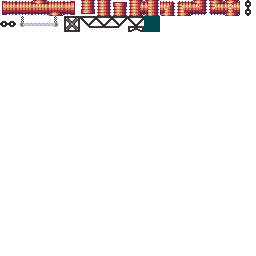
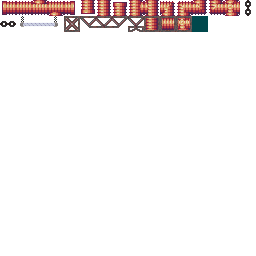
more gen stuff

Changed region(s): [[0.25, 0.0625, 0.8125, 0.125]]

diff --git a/mods/world/src/server/gen.rs b/mods/world/src/server/gen.rs
@@ -1,3 +1,4 @@
+use std::collections::{HashMap, HashSet};
 use std::collections::hash_map::DefaultHasher;
 use std::hash::Hasher;
 
@@ -135,23 +136,187 @@ impl World {
     fn structurize_chunk(&mut self, chunk_pos: Vector2<i32>) {
         self.mut_chunk_at_raw(chunk_pos).population = Population::Structures;
         if chunk_pos.mag_sq() <= 2 { return }
-        let pos = chunk_pos * 16;
+        let mut pos = chunk_pos * 16;
         let mut rng = rand::rngs::StdRng::seed_from_u64(self.chunk_hash_with_seed_and_salt(pos, 0));
-        if rng.gen_ratio(1, 10) {
-            for x in 3..(CHUNK_SIZE-3) as i32 {
-                for y in 3..(CHUNK_SIZE-3) as i32 {
-                    self.set_init_tile_at(pos + Vector2::new(x, y), Population::TerrainPostProcess, 
-                    if (x == 3) as u8 + (y == 3) as u8 + (x == CHUNK_SIZE as i32 - 4) as u8 + (y == CHUNK_SIZE as i32 - 4) as u8 > 1 { Tile::QuarteredLamp } else { Tile::LabWall });
-                    self.set_init_fg_tile_at(pos + Vector2::new(x, y), Population::TerrainPostProcess, match (x, y) {
-                        (3, 3) => FgTile::PipeRD,
-                        (3, 12) => FgTile::PipeRU,
-                        (12, 3) => FgTile::PipeLD,
-                        (12, 12) => FgTile::PipeLU,
-                        (3|12, _) => FgTile::PipeUD,
-                        (_, 3|12) => FgTile::PipeLR,
-                        _ => FgTile::Empty
-                    });
+        // pipes
+        if rng.gen_ratio(1, 8) {
+            pos += Vector2::new(rng.gen_range(0..CHUNK_SIZE as i32), rng.gen_range(0..CHUNK_SIZE as i32));
+            let mut pipes = HashSet::new();
+            fn gen_pipe(rng: &mut rand::rngs::StdRng, pipes: &mut HashSet<Vector2<i32>>, world: &mut World, mut pos: Vector2<i32>, dir: Vector2<i32>, len: i32) {
+                let len = len - rng.gen_range(1..4);
+                if len <= 0 { return }
+                if dir.mag_sq() > 0 {
+                    for _ in 0..len {
+                        pos += dir;
+                        if world.get_init_tile_at(pos, Population::TerrainPostProcess) == Tile::Wall || 
+                            world.get_init_fg_tile_at(pos, Population::TerrainPostProcess) != FgTile::Empty || 
+                            !pipes.insert(pos) { return; }
+                    }
                 }
+
+                if rng.gen_ratio(4, 5) { gen_pipe(rng, pipes, world, pos, Vector2::new(1, 0), len); }
+                if rng.gen_ratio(4, 5) { gen_pipe(rng, pipes, world, pos, Vector2::new(-1, 0), len); }
+                if rng.gen_ratio(4, 5) { gen_pipe(rng, pipes, world, pos, Vector2::new(0, 1), len); }
+                if rng.gen_ratio(4, 5) { gen_pipe(rng, pipes, world, pos, Vector2::new(0, -1), len); }
+            }
+            pipes.insert(pos);
+            gen_pipe(&mut rng, &mut pipes, self, pos, Vector2::new(0, 0), 16);
+
+            for pipe in &pipes {
+                let (wl, wr, wu, wd) = (
+                    self.get_init_tile_at(*pipe + Vector2::new(-1, 0), Population::TerrainPostProcess) == Tile::Wall,
+                    self.get_init_tile_at(*pipe + Vector2::new(1, 0), Population::TerrainPostProcess) == Tile::Wall,
+                    self.get_init_tile_at(*pipe + Vector2::new(0, -1), Population::TerrainPostProcess) == Tile::Wall,
+                    self.get_init_tile_at(*pipe + Vector2::new( 0, 1), Population::TerrainPostProcess) == Tile::Wall
+                );
+                self.set_init_fg_tile_at(*pipe, Population::TerrainPostProcess, 
+                match (
+                    pipes.contains(&(*pipe + Vector2::new(-1, 0))) || wl, 
+                    pipes.contains(&(*pipe + Vector2::new(1, 0))) || wr, 
+                    pipes.contains(&(*pipe + Vector2::new(0, -1))) || wu, 
+                    pipes.contains(&(*pipe + Vector2::new(0, 1))) || wd
+                ) {
+                    (true, true, true, true) => FgTile::PipeLRUD,
+
+                    (true, true, true, false) if !wu => FgTile::PipeLRU,
+                    (true, true, true, false) => FgTile::PipeLR,
+                    (true, true, false, true) if !wd => FgTile::PipeLRD,
+                    (true, true, false, true) => FgTile::PipeLR,
+                    (true, false, true, true) if !wl => FgTile::PipeLUD,
+                    (true, false, true, true) => FgTile::PipeUD,
+                    (false, true, true, true) if !wr => FgTile::PipeRUD,
+                    (false, true, true, true) => FgTile::PipeUD,
+
+                    (true, true, false, false) => FgTile::PipeLR,
+                    (false, false, true, true) => FgTile::PipeUD,
+
+                    (true, false, true, false) => FgTile::PipeLU,
+                    (true, false, false, true) => FgTile::PipeLD,
+                    (false, true, true, false) => FgTile::PipeRU,
+                    (false, true, false, true) => FgTile::PipeRD,
+
+                    (true, false, false, false) => FgTile::PipeEndR,
+                    (false, true, false, false) => FgTile::PipeEndL,
+                    (false, false, true, false) => FgTile::PipeEndD,
+                    (false, false, false, true) => FgTile::PipeEndU,
+
+                    (false, false, false, false) => FgTile::Empty
+                });
+            }
+        }
+        if rng.gen_ratio(1, 8) {
+            pos += Vector2::new(rng.gen_range(0..CHUNK_SIZE as i32), rng.gen_range(0..CHUNK_SIZE as i32));
+            let mut platforms = HashSet::new();
+            fn gen_support(rng: &mut rand::rngs::StdRng, platforms: &mut HashSet<Vector2<i32>>, world: &mut World, pos: Vector2<i32>, is_up_chain: bool) {
+                let mut next_layer = rng.gen_range(4..12);
+                for i in 1.. {
+                    if is_up_chain {
+                        let mut pos = pos;
+                        pos.y -= i;
+                        use FgTile::*;
+                        if world.get_init_tile_at(pos, Population::TerrainPostProcess) == Tile::Wall || 
+                            matches!(world.get_init_fg_tile_at(pos, Population::TerrainPostProcess), 
+                            FramedPipeJunction | FramedPipeLR | FramedPipeUD | MetalFrameBlock | MetalFrameFloorL | MetalFrameFloorM | MetalFrameFloorR | MetalFrameFloorMSupport | MetalFrameFloorMItemSupport ) { 
+                                break; 
+                            } else {
+                                world.set_init_fg_tile_at(pos, Population::TerrainPostProcess, FgTile::ChainV);
+                            }
+                    } else {
+                        let mut pos = pos;
+                        pos.y += i;
+                        use FgTile::*;
+                        if world.get_init_tile_at(pos, Population::TerrainPostProcess) == Tile::Wall || 
+                            matches!(world.get_init_fg_tile_at(pos, Population::TerrainPostProcess), 
+                            FramedPipeJunction | FramedPipeLR | FramedPipeUD | MetalFrameBlock | MetalFrameFloorL | MetalFrameFloorM | MetalFrameFloorR | MetalFrameFloorMSupport | MetalFrameFloorMItemSupport ) || 
+                            !platforms.insert(pos) { break; }
+                        next_layer -= 1;
+                        if next_layer <= 0 {
+                            next_layer = rng.gen_range(4..12);
+                            gen_platform(rng, platforms, world, pos);
+                        }
+                    }
+                }
+                return;
+            }
+            fn gen_platform(rng: &mut rand::rngs::StdRng, platforms: &mut HashSet<Vector2<i32>>, world: &mut World, pos: Vector2<i32>) {
+                let mut next_support = rng.gen_range(2..8);
+                let mut next_chain = rng.gen_range(2..8);
+                for i in 0..rng.gen_range(12..24) {
+                    let mut pos = pos;
+                    pos.x += i;
+                    use FgTile::*;
+                    if world.get_init_tile_at(pos, Population::TerrainPostProcess) == Tile::Wall || 
+                        matches!(world.get_init_fg_tile_at(pos, Population::TerrainPostProcess), FramedPipeJunction | FramedPipeLR | FramedPipeUD | MetalFrameBlock) || 
+                        !platforms.insert(pos) { break; }
+                    next_support -= 1;
+                    if next_support <= 0 {
+                        next_support = rng.gen_range(2..8);
+                        gen_support(rng, platforms, world, pos, false);
+                    }
+                    next_chain -= 1;
+                    if next_chain <= 0 {
+                        next_chain = rng.gen_range(2..8);
+                        gen_support(rng, platforms, world, pos, true);
+                    }
+                }
+                next_support = rng.gen_range(2..8);
+                next_chain = rng.gen_range(2..8);
+                for i in 1..rng.gen_range(12..24) {
+                    let mut pos = pos;
+                    pos.x -= i;
+                    use FgTile::*;
+                    if world.get_init_tile_at(pos, Population::TerrainPostProcess) == Tile::Wall || 
+                        matches!(world.get_init_fg_tile_at(pos, Population::TerrainPostProcess), FramedPipeJunction | FramedPipeLR | FramedPipeUD | MetalFrameBlock) || 
+                        !platforms.insert(pos) { break; }
+                    next_support -= 1;
+                    if next_support <= 0 {
+                        next_support = rng.gen_range(2..8);
+                        gen_support(rng, platforms, world, pos, false);
+                    }
+                    next_chain -= 1;
+                    if next_chain <= 0 {
+                        next_chain = rng.gen_range(2..8);
+                        gen_support(rng, platforms, world, pos, true);
+                    }
+                }
+            }
+            gen_platform(&mut rng, &mut platforms, self, pos);
+
+            for platform in &platforms {
+                if matches!(self.get_init_fg_tile_at(*platform + Vector2::new(1, 0), Population::TerrainPostProcess), 
+                FgTile::FluorecentLampL | FgTile::FluorecentLampR | FgTile::ChainV) {
+                    self.set_init_fg_tile_at(*platform, Population::TerrainPostProcess, FgTile::MetalFrameFloorMItemSupport);
+                    continue;
+                }
+                let (wl, wr, wu, wd) = (
+                    self.get_init_tile_at(*platform + Vector2::new(-1, 0), Population::TerrainPostProcess) == Tile::Wall,
+                    self.get_init_tile_at(*platform + Vector2::new(1, 0), Population::TerrainPostProcess) == Tile::Wall,
+                    self.get_init_tile_at(*platform + Vector2::new(0, -1), Population::TerrainPostProcess) == Tile::Wall,
+                    self.get_init_tile_at(*platform + Vector2::new( 0, 1), Population::TerrainPostProcess) == Tile::Wall
+                );
+                let t = 
+                match (
+                    platforms.contains(&(*platform + Vector2::new(-1, 0))) || wl, 
+                    platforms.contains(&(*platform + Vector2::new(1, 0))) || wr, 
+                    platforms.contains(&(*platform + Vector2::new(0, -1))) || wu, 
+                    platforms.contains(&(*platform + Vector2::new(0, 1))) || wd
+                ) {
+                    (true, true, _, false) if !wu => FgTile::MetalFrameFloorM,
+                    (true, false, _, false) if !wu => FgTile::MetalFrameFloorR,
+                    (false, true, _, false) if !wu => FgTile::MetalFrameFloorL,
+                    (true, true, _, true) => FgTile::MetalFrameFloorMSupport,
+
+                    (_, _, _, _) => FgTile::MetalFrameBlock,
+                };
+                let current = self.get_init_fg_tile_at(*platform, Population::TerrainPostProcess);
+                use FgTile::*;
+                let t = match current {
+                    PipeEndL | PipeLR | PipeEndR => FgTile::FramedPipeLR,
+                    PipeEndU | PipeUD | PipeEndD => FgTile::FramedPipeUD,
+                    PipeLRU | PipeLRD | PipeRUD | PipeLUD | PipeLD | PipeRD | PipeLU | PipeRU | PipeLRUD => FgTile::FramedPipeJunction,
+                    _ => t
+                };
+                self.set_init_fg_tile_at(*platform, Population::TerrainPostProcess, t);
             }
         }
     }

diff --git a/mods/player/src/client.rs b/mods/player/src/client.rs
@@ -115,6 +115,7 @@ impl PlayerHandle {
 
     pub(crate) fn receive_position(&mut self, _messenger: &mut ClientMessenger, _renderer: Nullable<&mut Renderer>, _store: &mut DataStore, (position, teleporting): (Vector2<f32>, bool)) { 
 		if teleporting {
+            log!("got teleported");
 			self.p_position = position;
 			self.interpolation_delta = 1.0;
 			self.position = position;

diff --git a/mods/world/src/tiles.rs b/mods/world/src/tiles.rs
@@ -65,6 +65,10 @@ pub enum FgTile {
     MetalFrameFloorM,
     MetalFrameFloorR,
     MetalFrameFloorMSupport,
+    MetalFrameFloorMItemSupport,
+    FramedPipeLR,
+    FramedPipeUD,
+    FramedPipeJunction,
     Water
 }
 

diff --git a/server/build.rs b/server/build.rs
@@ -1,5 +1,5 @@
 use rerun_except::rerun_except;
 
 fn main() {
-	rerun_except(&["mods/", "runtime/"]).unwrap();
+	rerun_except(&["mods/**", "runtime/**", "__pycache__/**", "target/**"]).unwrap();
 }

diff --git a/client/build.rs b/client/build.rs
@@ -1,5 +1,5 @@
 use rerun_except::rerun_except;
 
 fn main() {
-	rerun_except(&["runtime/"]).unwrap();
+	rerun_except(&["runtime/**", "target/**"]).unwrap();
 }

diff --git a/.github/README.md b/.github/README.md
@@ -23,7 +23,7 @@
 
 ---
 
-<img src="img/img_worm.png" alt="" style="width: 510px; image-rendering: pixelated">
+<img src="img/gen_pipes_metal.png" alt="" style="width: 510px; image-rendering: pixelated">
 
 ---
 
